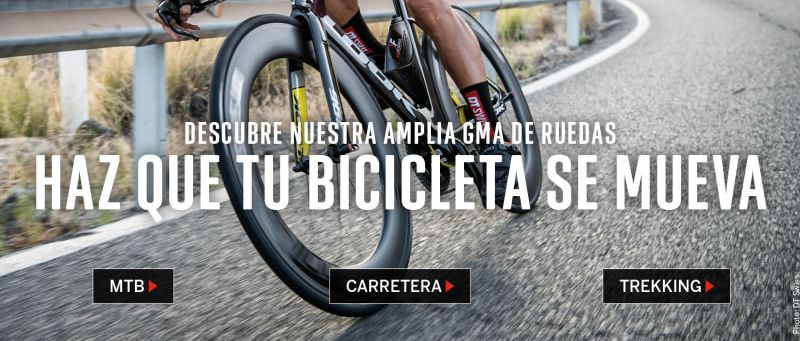
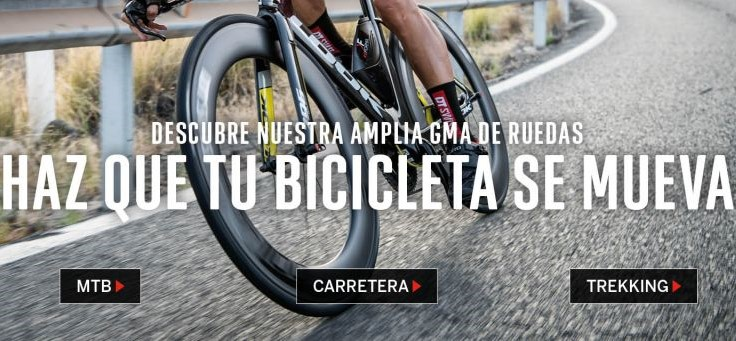
Ultimo commit,Finalizacion del siito web responsivo

diff --git a/index.html b/index.html
@@ -72,25 +72,16 @@
                         </div>
                         <div class="carousel-inner">
                             <div class="carousel-item active" data-bs-interval="3000">
-                            <img src="img/rUEDASbICIS.jpg" class="d-block w-100 " alt="ruedasBicis">
-                            <div class="carousel-caption d-none d-md-block">
+                                <img src="img/bici2.jpg" class="d-block w-100 fotos-carousel foto1-carousel" alt="ruedasBicis">   
                             </div>
-                        </div>
                         <div class="carousel-item" data-bs-interval="3000">
-                            <img src="img/muebles.jpg" class="d-block w-100 " alt="muebles">
-                            <div class="carousel-caption d-none d-md-block">
-                                <h1>LA ULTIMA TENDENCIA EN MUEBLES</h1>
-                            </div>
+                            <img src="img/muebles.jpg" class="d-block w-100 fotos-carousel " alt="muebles">
                         </div>
                         <div class="carousel-item">
-                            <img src="img/enviosCorreo.jpg" class="d-block w-100 " alt="entrega">
-                            <div class="carousel-caption d-none d-md-block">
-                            </div>
+                            <img src="img/enviosCorreo.jpg" class="d-block w-100 fotos-carousel " alt="entrega">
                         </div>
                         <div class="carousel-item" data-bs-interval="3000">
-                            <img src="img/Promocion-universidad-beats.png" class="d-block w-100 " alt="mac">
-                            <div class="carousel-caption d-none d-md-block">
-                            </div>
+                            <img src="img/Promocion-universidad-beats.png" class="d-block w-100 fotos-carousel" alt="mac">
                         </div>
                     </div>
                     <button class="carousel-control-prev" type="button" data-bs-target="#carouselExampleDark" data-bs-slide="prev">
@@ -187,7 +178,7 @@
                             <img src="img/smart6.webp" class="card-img-top " alt="reloj smart6">
                             <div class="card-body">
                                 <h5 class="card-title">Garmin Smart6</h5>
-                                <p class="card-text">Some quick example text to build on the card title and make up the bulk of the card's content.</p>
+                                <p class="card-text">Enfréntate a cualquier reto deportivo o en exteriores con el resistente reloj multideporte con GPS.</p>
                                 <spam class="card__icon jam jam-heart-f"></spam>
                                 <a href="#" class="btn btn-primary">COMPRAR</a>
                             </div>
@@ -198,7 +189,7 @@
                             <img src="img/tripode.jpg" class="card-img-top" alt="tripode">
                             <div class="card-body">
                                 <h5 class="card-title">Tripode</h5>
-                                <p class="card-text">Envio Gratis</p>
+                                <p class="card-text">$ 12.873  <br>Envio Gratis  </p>
                                 <a href="#" class="btn btn-primary">COMPRAR</a>
                             </div>
                         </div>
@@ -448,16 +439,16 @@
         </section>
     </section>
     <section class="carrusel2">
-        <div id="carouselExampleFade" class="carousel slide carousel-fade" data-bs-ride="carousel">
+        <div id="carouselExampleFade" class="carousel slide carousel-fade fotos-carousel " data-bs-ride="carousel">
             <div class="carousel-inner">
                 <div class="carousel-item active">
-                    <img src="img/vehiculoAPunto.webp" class="d-block w-100" alt="taller">
+                    <img src="img/vehiculoAPunto.webp" class="d-block w-100 fotos-carousel carousel2" alt="taller">
                 </div>
                 <div class="carousel-item">
-                    <img src="img/taller.webp" class="d-block w-100" alt="taller">
+                    <img src="img/taller.webp" class="d-block w-100 fotos-carousel carousel2" alt="taller">
                 </div>
                 <div class="carousel-item">
-                    <img src="img/fateo.webp" class="d-block w-100" alt="taller">
+                    <img src="img/fateo.webp" class="d-block w-100 fotos-carousel carousel2" alt="taller">
                 </div>
             </div>
             <button class="carousel-control-prev" type="button" data-bs-target="#carouselExampleFade" data-bs-slide="prev">

diff --git a/css/styles.css b/css/styles.css
@@ -36,6 +36,9 @@ main{
     padding-top: 100px;
     padding-bottom: 100px ;
 }
+.text-bg-light {
+    border: none;
+}
 .texto_foto_ropa{
     padding-top: 12px;
     text-align: center;
@@ -275,6 +278,9 @@ main{
     color:#0df053;
     background-color: #fff;
 }
+.jam-whatsapp:before{
+    color:white;
+}
 
 .footer{
     background-color: rgba(33,37,41);
@@ -304,6 +310,9 @@ main{
 .container-fluid{
     overflow: hidden;
 }
+.carousel-control-next{
+    opacity: 3.5;
+}
 
 
 
@@ -317,24 +326,40 @@ main{
         margin-left: -5px;
     }
     #titulo-principal{
-        font-size: 20px;   
+        font-size: 1rem;   
     }
-    .d-block{
-        max-width: 100%;
-        height: 250px !important;
-        object-fit: cover ;
-        object-position: 5% 70% !important;
+    .fotos-carousel{
+        width: 100% !important;
+        height: 180px !important;
+        object-fit: cover !important;
+        
+    }
+    .carousel2{
+        width: auto !important ;
+        object-fit: cover;
+
+    }
+    .row > * {
+        padding-right: 0;
+        padding-left: 0;
+    }
+    .card {
+        margin-left: 40px;
     }
     .tarjeta_ropa{
         height: 200px;
+        width:auto;
+        object-fit: contain;
+        margin-left: 1px;
+        margin-right: 1px;
     }
     .texto_foto_ropa{
         font-size: 2.8rem;
-        padding-top: 25px;
+        padding-top: 15px;
         color:#fff
     }
     .titulo__form{
-        margin-top: 106px;
+        margin-top: 10px;
     }
     .limitado{
     display: none;
@@ -375,8 +400,5 @@ main{
         font-size: 15px;
     }
     
-    #carouselExampleDark{
-        width:100%;
-        object-fit:cover;
-    }
+
 }
